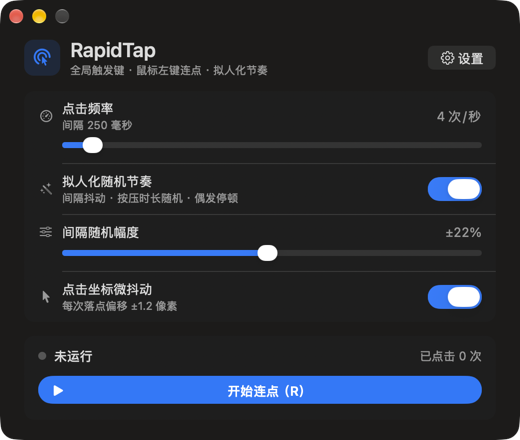
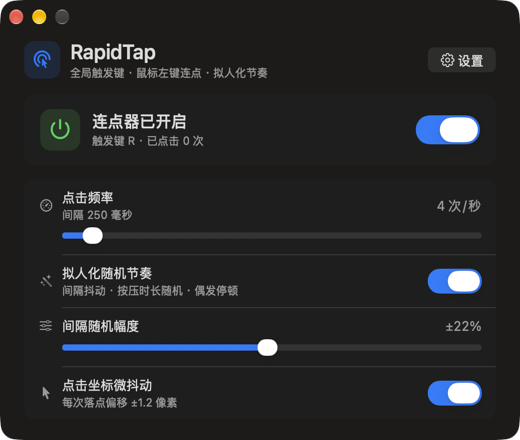
新增连点器总开关：默认关闭、关闭时不拦截触发键，主界面改为顶部控制卡（v1.3.0）

diff --git a/Sources/MainViewController.swift b/Sources/MainViewController.swift
@@ -37,13 +37,13 @@ final class MainViewController: NSViewController {
     private let cursorJitterSwitch = NSSwitch()
     private var jitterBlockView: NSView?
 
-    // 运行状态
-    private let statusDot = StatusDotView()
-    private let statusLabel = NSTextField(labelWithString: "")
-    private let countLabel = NSTextField(labelWithString: "")
-    private let toggleButton = NSButton(title: "开始连点", target: nil, action: nil)
-    private let playImage = NSImage(systemSymbolName: "play.fill", accessibilityDescription: nil)
-    private let stopImage = NSImage(systemSymbolName: "stop.fill", accessibilityDescription: nil)
+    // 顶部控制卡
+    private let controlBadge = SymbolBadgeView(symbolName: "power",
+                                               tint: .tertiaryLabelColor,
+                                               side: 40)
+    private let controlTitleLabel = NSTextField(labelWithString: "连点器已关闭")
+    private let controlSubtitleLabel = NSTextField(labelWithString: "")
+    private let enableSwitch = NSSwitch()
 
     private var uiTimer: Timer?
     private var isSyncingUI = false
@@ -143,8 +143,8 @@ final class MainViewController: NSViewController {
         UIBuilder.addFullWidth(self.makeHeader(), to: root)
         UIBuilder.addFullWidth(self.makePermissionBanner(), to: root)
         UIBuilder.addFullWidth(self.makeUpdateBanner(), to: root)
+        UIBuilder.addFullWidth(self.makeControlCard(), to: root)
         UIBuilder.addFullWidth(self.makeClickCard(), to: root)
-        UIBuilder.addFullWidth(self.makeStatusCard(), to: root)
     }
 
     private func makeHeader() -> NSView {
@@ -280,45 +280,39 @@ final class MainViewController: NSViewController {
         return UIBuilder.makeCard(rows: [cpsBlock, humanizeRow, jitterBlock, cursorRow])
     }
 
-    private func makeStatusCard() -> NSView {
-        self.statusLabel.font = .systemFont(ofSize: 13, weight: .medium)
-        self.statusLabel.textColor = .labelColor
+    /// 顶部控制卡：连点器总开关与实时状态
+    private func makeControlCard() -> NSView {
+        self.controlTitleLabel.font = .systemFont(ofSize: 16, weight: .semibold)
+        self.controlTitleLabel.textColor = .labelColor
 
-        self.countLabel.font = .monospacedDigitSystemFont(ofSize: 12, weight: .regular)
-        self.countLabel.textColor = .secondaryLabelColor
+        self.controlSubtitleLabel.font = .systemFont(ofSize: 11)
+        self.controlSubtitleLabel.textColor = .secondaryLabelColor
 
-        let topRow = NSStackView(views: [self.statusDot,
-                                         self.statusLabel,
-                                         UIBuilder.makeSpacer(),
-                                         self.countLabel])
-        topRow.orientation = .horizontal
-        topRow.alignment = .centerY
-        topRow.spacing = 8
-        topRow.translatesAutoresizingMaskIntoConstraints = false
+        let titles = NSStackView(views: [self.controlTitleLabel, self.controlSubtitleLabel])
+        titles.orientation = .vertical
+        titles.alignment = .leading
+        titles.spacing = 2
 
-        self.toggleButton.bezelStyle = .rounded
-        self.toggleButton.controlSize = .large
-        self.toggleButton.font = .systemFont(ofSize: 13, weight: .semibold)
-        self.toggleButton.bezelColor = .controlAccentColor
-        self.toggleButton.imagePosition = .imageLeading
-        self.toggleButton.symbolConfiguration = NSImage.SymbolConfiguration(pointSize: 12, weight: .semibold)
-        self.toggleButton.translatesAutoresizingMaskIntoConstraints = false
+        self.enableSwitch.controlSize = .large
+        self.enableSwitch.setAccessibilityLabel("启用连点器")
+
+        let row = NSStackView(views: [self.controlBadge,
+                                      titles,
+                                      UIBuilder.makeSpacer(),
+                                      self.enableSwitch])
+        row.orientation = .horizontal
+        row.alignment = .centerY
+        row.spacing = 12
+        row.translatesAutoresizingMaskIntoConstraints = false
 
         let card = CardView()
         card.translatesAutoresizingMaskIntoConstraints = false
-        card.addSubview(topRow)
-        card.addSubview(self.toggleButton)
-
+        card.addSubview(row)
         NSLayoutConstraint.activate([
-            topRow.leadingAnchor.constraint(equalTo: card.leadingAnchor, constant: UIConstants.cardInset),
-            topRow.trailingAnchor.constraint(equalTo: card.trailingAnchor, constant: -UIConstants.cardInset),
-            topRow.topAnchor.constraint(equalTo: card.topAnchor, constant: 12),
-
-            self.toggleButton.leadingAnchor.constraint(equalTo: card.leadingAnchor, constant: UIConstants.cardInset),
-            self.toggleButton.trailingAnchor.constraint(equalTo: card.trailingAnchor, constant: -UIConstants.cardInset),
-            self.toggleButton.topAnchor.constraint(equalTo: topRow.bottomAnchor, constant: 10),
-            self.toggleButton.heightAnchor.constraint(equalToConstant: 32),
-            self.toggleButton.bottomAnchor.constraint(equalTo: card.bottomAnchor, constant: -14)
+            row.leadingAnchor.constraint(equalTo: card.leadingAnchor, constant: 16),
+            row.trailingAnchor.constraint(equalTo: card.trailingAnchor, constant: -16),
+            row.topAnchor.constraint(equalTo: card.topAnchor, constant: 14),
+            row.bottomAnchor.constraint(equalTo: card.bottomAnchor, constant: -14)
         ])
         return card
     }
@@ -349,8 +343,8 @@ final class MainViewController: NSViewController {
         self.cursorJitterSwitch.target = self
         self.cursorJitterSwitch.action = #selector(self.cursorJitterChanged)
 
-        self.toggleButton.target = self
-        self.toggleButton.action = #selector(self.toggleRunning)
+        self.enableSwitch.target = self
+        self.enableSwitch.action = #selector(self.enableChanged)
     }
 
     private func bindMonitor() {
@@ -419,12 +413,16 @@ final class MainViewController: NSViewController {
         self.settings.update { $0.cursorJitter = enabled }
     }
 
-    @objc private func toggleRunning(_ sender: Any) {
-        if self.engine.isRunning {
+    @objc private func enableChanged(_ sender: Any) {
+        guard !self.isSyncingUI else { return }
+
+        let enabled = self.enableSwitch.state == .on
+        self.monitor.isEnabled = enabled
+        if enabled && !self.monitor.isActive {
+            _ = self.monitor.start()
+        }
+        if !enabled {
             self.engine.stop()
-        } else if !self.engine.start() {
-            NSSound.beep()
-            self.refreshPermission()
         }
         self.refreshRuntime()
     }
@@ -505,17 +503,28 @@ final class MainViewController: NSViewController {
     }
 
     private func refreshRuntime() {
+        let enabled = self.monitor.isEnabled
         let running = self.engine.isRunning
         let count = self.engine.clickCount
         let keyName = KeyNames.name(for: self.settings.current.triggerKeyCode)
 
-        self.statusDot.color = running ? .systemGreen : .tertiaryLabelColor
-        self.statusLabel.stringValue = running ? "运行中" : "未运行"
-        self.countLabel.stringValue = "已点击 \(count) 次"
+        if !enabled {
+            self.controlTitleLabel.stringValue = "连点器已关闭"
+            self.controlSubtitleLabel.stringValue = "触发键 \(keyName) · 关闭时不会被拦截"
+            self.controlBadge.tint = .systemRed
+        } else if running {
+            self.controlTitleLabel.stringValue = "连点中"
+            self.controlSubtitleLabel.stringValue = "触发键 \(keyName) · 已点击 \(count) 次"
+            self.controlBadge.tint = .systemGreen
+        } else {
+            self.controlTitleLabel.stringValue = "连点器已开启"
+            self.controlSubtitleLabel.stringValue = "触发键 \(keyName) · 已点击 \(count) 次"
+            self.controlBadge.tint = .systemGreen
+        }
 
-        self.toggleButton.title = running ? "停止连点（\(keyName)）" : "开始连点（\(keyName)）"
-        self.toggleButton.bezelColor = running ? .systemRed : .controlAccentColor
-        self.toggleButton.image = running ? self.stopImage : self.playImage
+        self.isSyncingUI = true
+        self.enableSwitch.state = enabled ? .on : .off
+        self.isSyncingUI = false
     }
 
     private func requestPermissionPrompt() {

diff --git a/Sources/SettingsViewController.swift b/Sources/SettingsViewController.swift
@@ -211,7 +211,7 @@ final class SettingsViewController: NSViewController {
                                                title: "触发模式",
                                                trailing: [self.modeControl])
 
-        self.triggerHintLabel.stringValue = "普通按键会被全局拦截，不再传给当前应用；⌘⌥⌃⇧ 等修饰键不会被拦截，仍可正常组合使用，建议配合「按住连点」。"
+        self.triggerHintLabel.stringValue = "在主界面开启连点器后，普通按键会被全局拦截、不再传给当前应用；⌘⌥⌃⇧ 等修饰键不会被拦截，建议配合「按住连点」。"
         self.triggerHintLabel.font = .systemFont(ofSize: 11)
         self.triggerHintLabel.textColor = .tertiaryLabelColor
         UIBuilder.configureWrapping(self.triggerHintLabel,
@@ -402,7 +402,7 @@ final class SettingsViewController: NSViewController {
         }
 
         self.settings.update { $0.triggerKeyCode = code }
-        self.triggerHintLabel.stringValue = "普通按键会被全局拦截，不再传给当前应用；⌘⌥⌃⇧ 等修饰键不会被拦截，仍可正常组合使用，建议配合「按住连点」。"
+        self.triggerHintLabel.stringValue = "在主界面开启连点器后，普通按键会被全局拦截、不再传给当前应用；⌘⌥⌃⇧ 等修饰键不会被拦截，建议配合「按住连点」。"
         self.triggerHintLabel.textColor = .tertiaryLabelColor
         self.refreshTriggerDisplay()
     }

diff --git a/Sources/HotKeyMonitor.swift b/Sources/HotKeyMonitor.swift
@@ -20,6 +20,11 @@ final class HotKeyMonitor {
     private var runLoopSource: CFRunLoopSource?
     private(set) var isActive = false
 
+    /// 连点器总开关
+    /// 关闭时触发键直接放行、不做任何拦截，避免长期占用用户设置的按键。
+    /// 默认关闭：每次启动都需要用户手动开启。
+    var isEnabled = false
+
     private let stateLock = NSLock()
     private var recording = false
 
@@ -127,6 +132,11 @@ final class HotKeyMonitor {
             return nil
         }
 
+        // 连点器关闭时，触发键直接放行，避免长期占用
+        guard self.isEnabled else {
+            return Unmanaged.passUnretained(event)
+        }
+
         guard code == Settings.shared.current.triggerKeyCode,
               type == .keyDown || type == .keyUp else {
             return Unmanaged.passUnretained(event)
@@ -175,7 +185,7 @@ extension HotKeyMonitor {
             return Unmanaged.passUnretained(event)
         }
 
-        if code == Settings.shared.current.triggerKeyCode {
+        if self.isEnabled && code == Settings.shared.current.triggerKeyCode {
             DispatchQueue.main.async { [weak self] in
                 if pressed {
                     self?.onTriggerDown?()

diff --git a/md/RapidTap-技术文档.md b/md/RapidTap-技术文档.md
@@ -87,6 +87,7 @@ CGEvent.tapCreate(tap: .cgSessionEventTap,
 - `.defaultTap` 才能"吞掉"事件（返回 `nil`），`.listenOnly` 只能旁听。触发键被吞后前台应用收不到，避免游戏里同时触发原按键功能。
 - 回调必须是 C 函数指针，不能捕获上下文，实例通过 `refcon`（`Unmanaged.passUnretained(self).toOpaque()`）取回。
 - 过滤 `keyboardEventAutorepeat != 0`，避免长按触发键时系统重复事件把"切换模式"反复启停。
+- **总开关**：`isEnabled` 为 false 时直接 `passUnretained` 放行所有按键，不吞噬触发键——这样应用常驻也不会占用用户设置的按键；每次启动默认关闭，需要在主界面手动开启。录制逻辑排在总开关之前，因此关闭状态下依然可以录制触发键。
 - 监听可能被系统因超时/用户输入禁用（`tapDisabledByTimeout` / `tapDisabledByUserInput`），回调里需要重新 `tapEnable`。
 - **修饰键**（⌘⌥⌃⇧ / Caps Lock / Fn）不产生 `keyDown`/`keyUp`，而是 `flagsChanged`，所以 tap 掩码必须额外包含 `flagsChanged`，否则这类按键完全收不到（表现为"无法识别 Option / Command"）。
   修饰键处理有两点与普通键不同：
@@ -208,7 +209,7 @@ TCC 以代码签名的「指定要求」识别应用：
 
 | 位置 | 内容 |
 |------|------|
-| 主窗口（`MainViewController`） | 品牌头 + 设置按钮 → 连点设置卡片（频率/拟人化/幅度/坐标抖动）→ 运行状态卡片（状态/计数/开始按钮）；仅在未授权、发现新版本时插入提示横幅 |
+| 主窗口（`MainViewController`） | 品牌头 + 设置按钮 → 顶部控制卡（40pt 电源徽章 + 状态标题 + 触发键/计数 + 大号开关，关闭态红色、开启态绿色）→ 连点设置卡片（频率/拟人化/幅度/坐标抖动）；仅在未授权、发现新版本时插入提示横幅 |
 | 设置面板（`SettingsViewController`，sheet） | 权限卡片 → 触发分组（按键/模式）→ 通用分组（主题/自启动/更新）→ 风险脚注 → 完成按钮 |
 
 公共视觉组件（卡片、分隔线、图标徽章、状态点、行/分组构造器）抽到 `UIComponents.swift`，两个界面共用同一套间距与语义色。sheet 默认背景是纯白，直接用自绘 `PanelBackgroundView` 铺 `underPageBackgroundColor`，卡片层次才与主窗口一致。
@@ -269,6 +270,9 @@ TCC 以代码签名的「指定要求」识别应用：
 | 自动更新（检查） | 复制应用并把版本改为 1.0.0 后启动 | 1.5 秒后自动检查，界面显示「发现新版本 v1.0.1（当前 1.0.0）」，按钮变为「更新到 v1.0.1」 |
 | 自动更新（安装） | 点击「更新到 v1.0.1」 | 先显示「正在下载…」，随后自动替换并重启；进程路径不变，`CFBundleShortVersionString` 变为 1.0.1 |
 | 界面精简 | 主窗口截图 + 打开设置面板 | 主窗口只剩连点设置与启动区域（440pt 高）；设置面板以 sheet 打开，关闭后主窗口状态同步 |
+| 总开关（关闭） | 关闭开关后用 GUI 进程发送触发键 R | 状态保持「连点器已关闭」，不产生点击（触发键直接放行） |
+| 总开关（开启） | 打开开关后按住 R 0.8 秒 | 状态变「连点中」，按 30 次/秒频率点击 23 次，松开即停 |
+| 启动默认状态 | 重启应用 | 开关默认关闭，触发键不被拦截 |
 | 设置面板功能 | AX 操作录制、模式、主题，再关闭面板 | 录制 Option 写入 58；切换模式 `holdToClick=false`；主题 dark/system 正确落盘，关闭面板后主界面跟随 |
 | 参数持久化 | 调整频率/模式/坐标抖动后重启 | 全部保持（6 次/秒、按住模式、坐标抖动开启） |
 | 窗口布局 | 多屏（内置 2056×1329 + MateView 2560×1707） | 在鼠标所在屏居中，520pt 宽，无约束警告 |

diff --git a/README.md b/README.md
@@ -28,7 +28,7 @@ cd RapidTap
 
 首次启动需要在 **系统设置 → 隐私与安全性 → 辅助功能** 中勾选 `RapidTap`（否则只能看到界面、无法拦截按键和模拟点击），授权后界面顶部会变绿。
 
-接着点右上角「设置」，在设置面板里点「重新设置」录一个触发键（支持 `F6`–`F12` 以及 ⌘⌥⌃⇧ 等修饰键），选好模式后关闭面板，按触发键即可开始连点。完整说明见下文。
+接着点右上角「设置」，在设置面板里点「重新设置」录一个触发键（支持 `F6`–`F12` 以及 ⌘⌥⌃⇧ 等修饰键），选好模式后关闭面板，再打开主界面顶部的「连点器」开关，按触发键即可开始连点。完整说明见下文。
 
 ---
 
@@ -36,7 +36,8 @@ cd RapidTap
 
 | 能力 | 说明 |
 |------|------|
-| 全局触发键 | 任意按键，**包括 ⌘ / ⌥ / ⌃ / ⇧ / Caps Lock / Fn**；界面上「重新设置」后按下即可设置（默认 `F6`） |
+| 连点器开关 | 主界面顶部开关，**默认关闭**；关闭时触发键完全不被拦截，不会长期占用你设置的按键 |
+| 全局触发键 | 任意按键，**包括 ⌘ / ⌥ / ⌃ / ⇧ / Caps Lock / Fn**；设置面板里「重新设置」后按下即可设置（默认 `F6`） |
 | 触发键拦截 | 命中触发键时事件被吞掉，不会传给前台应用/游戏 |
 | 两种模式 | **按住连点**：按住触发键才连点；**按一下切换**：按一下开始、再按一下停止 |
 | 连点频率 | 1 ~ 60 次/秒，实时显示对应间隔毫秒数 |
@@ -55,8 +56,8 @@ cd RapidTap
 按 macOS「系统设置」的分组表单规范设计（效果见上方截图），主界面只保留最常用的内容：
 
 **主界面**
+- 顶部控制卡：连点器开关 + 实时状态（已关闭为红色电源图标 / 已开启为绿色 / 连点中），副标题显示触发键与已点击次数；
 - 连点设置：点击频率、拟人化随机节奏、间隔随机幅度、点击坐标微抖动；
-- 运行状态：未运行 / 运行中、已点击次数、开始/停止按钮；
 - 只有在**未授权**或**发现新版本**时，才会多出一条提示横幅。
 
 **设置面板**（右上角「设置」，以 sheet 打开）
@@ -239,6 +240,7 @@ RapidTap/
 
 ## 版本历史
 
+- **v1.3.0**（2026-11-06）：新增连点器总开关（默认关闭，关闭时不拦截触发键）；主界面改为顶部控制卡，状态更醒目。
 - **v1.2.0**（2026-11-06）：界面精简 —— 主界面只保留连点设置与启动区域，权限、触发、主题、自启动、更新与风险提示收进设置面板。
 - **v1.1.0**（2026-11-06）：新增自动更新 —— 启动静默检查 GitHub Releases，支持一键下载安装并自动重启。
 - **v1.0.1**（2026-11-05）：新增 ⌘ / ⌥ / ⌃ / ⇧ / Caps Lock / Fn 作为触发键（监听 `flagsChanged`）；修饰键不拦截，仍可正常参与组合快捷键。
